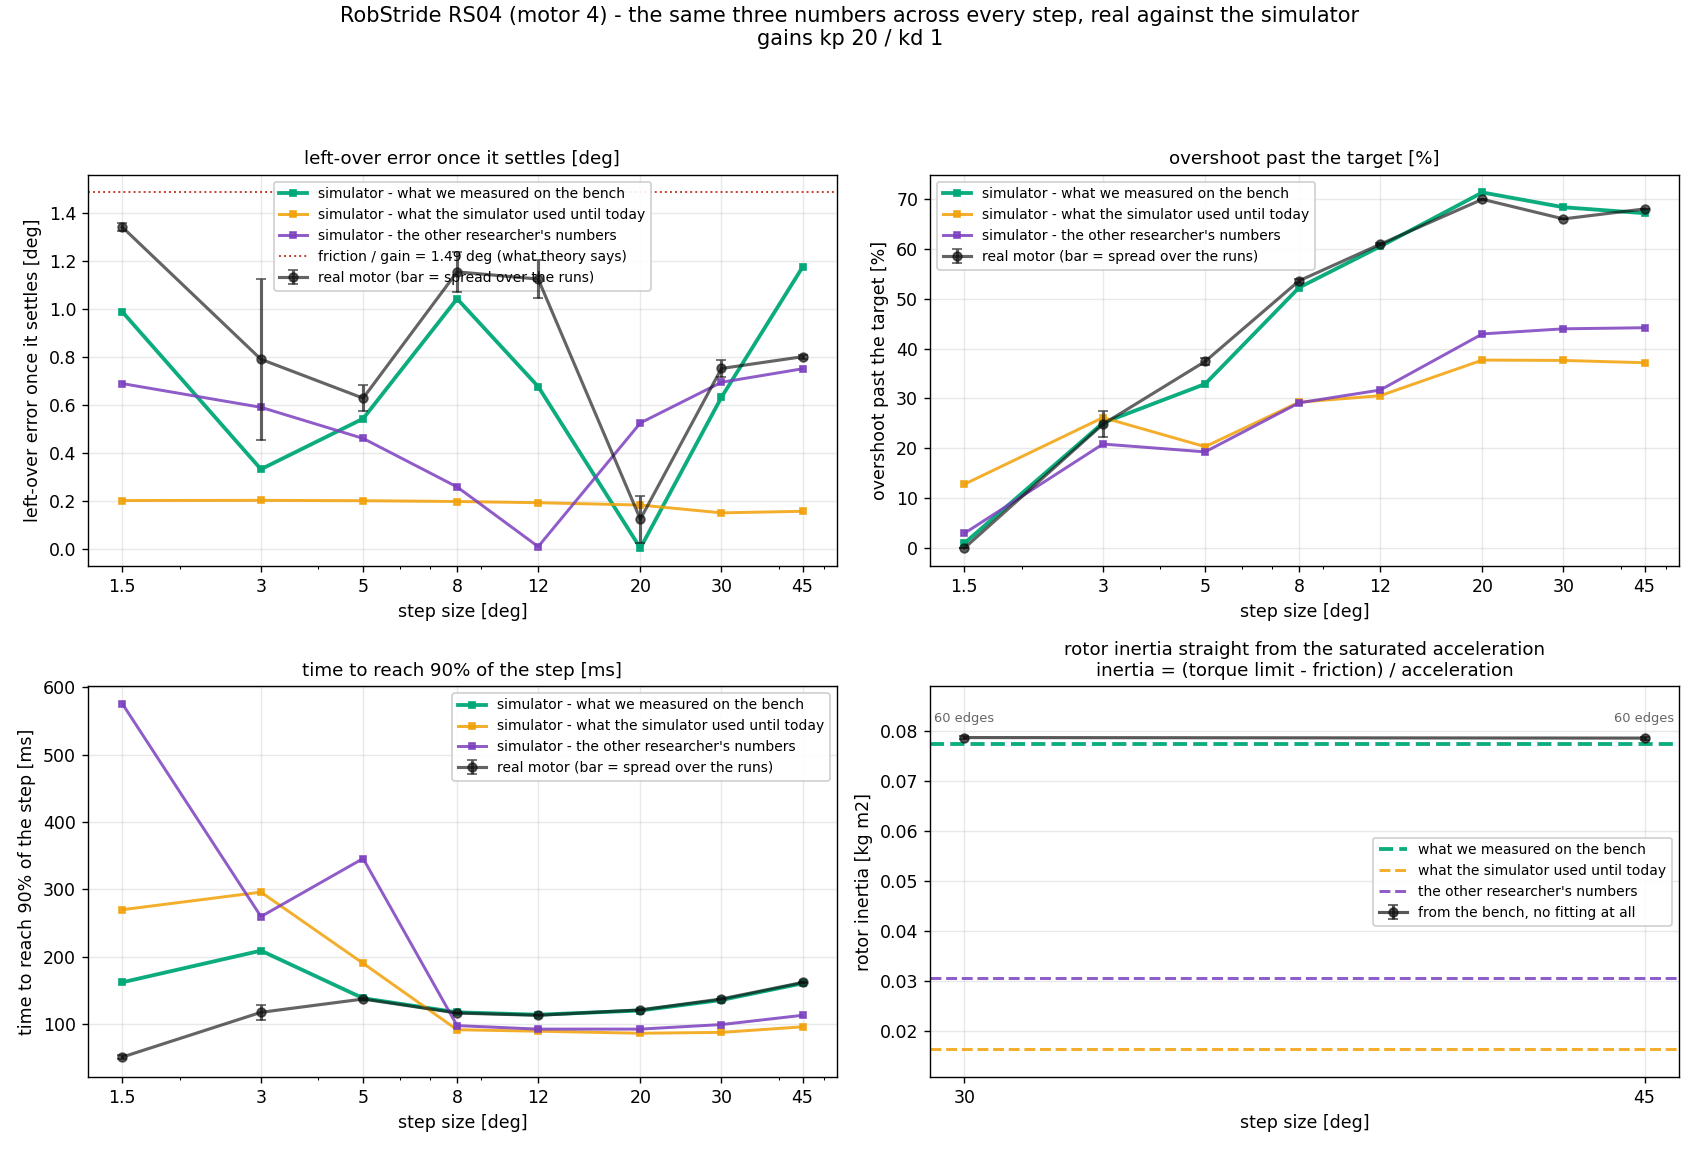
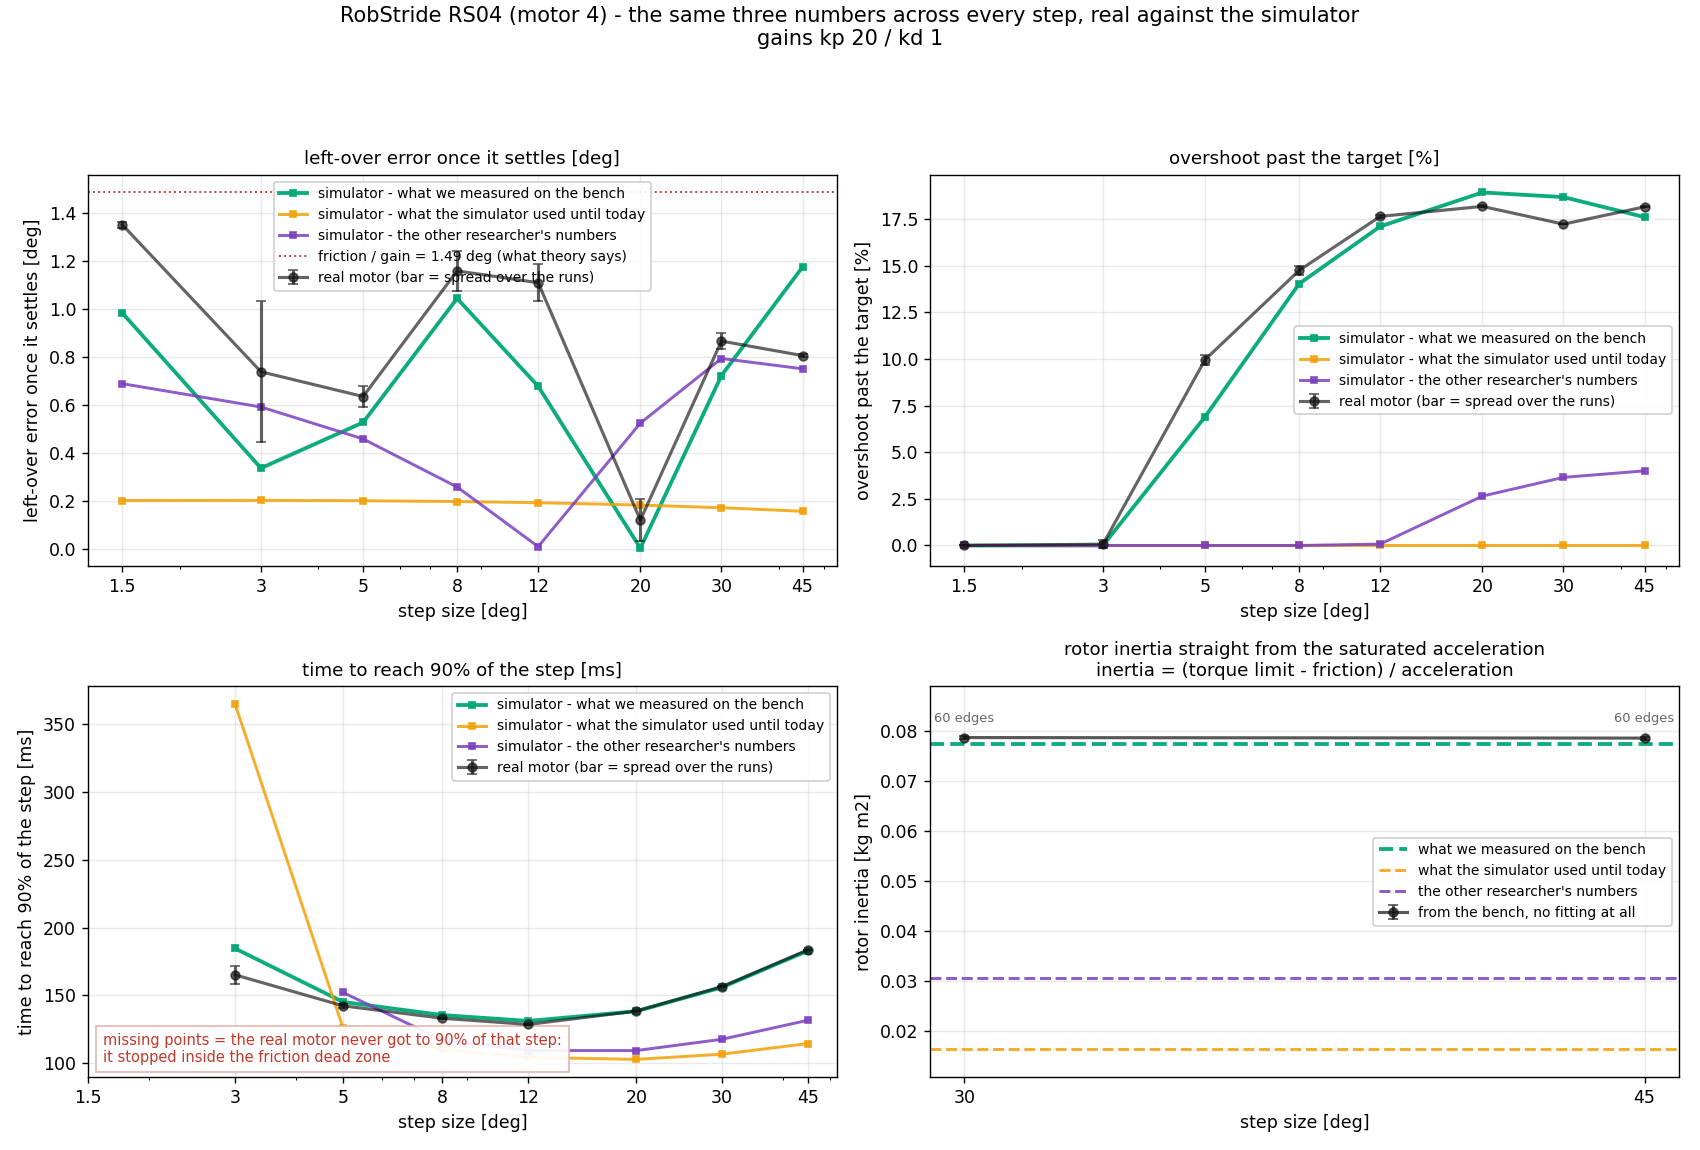
overshoot was inflated up to 2x: a step edge can straddle two grid cells
Resampling to a 1 ms grid smears each edge, and "the value jumped a lot"
then fires on both cells. Two edges get counted where there is one, the
step height comes out half, and overshoot - measured against that height
- doubles. Whether an edge smears depends on where it lands relative to
the grid, which varies run to run, so it manufactures differences that
are not there. Spotted in the position sweep: 53% at one shaft angle
against 88% at another, with the simulator obediently reproducing the
difference, which no position-independent model can do.

A step command has two levels, so classify each sample above or below
the midpoint and take the transitions of that. Immune to smearing, and
the height comes from the two levels rather than from the cell beside
the edge.

★ Corrects the numbers in the previous commit. Overshoot does not run to
70%; it saturates at 18%:

  step      1.5   3     5     8    12    20    30    45 deg
  real      0.0  0.1  10.0  14.8  17.7  18.2  17.2  18.2 %
  bench sim 0.0  0.0   6.9  14.0  17.1  18.9  18.7  17.6 %

and the models that cannot make it are the light ones - the other
researcher's reaches 4% at 45 deg, the values the simulator carried
reach 0%. Time to 90% has a minimum at 12 deg and climbs both ways
(friction-limited below, torque-limited above); measured 165/142/133/
129/138/157/184 ms against 185/145/136/131/138/156/183.

Position sweep, now that the metric is sound: overshoot 16.8-18.1% and
[…]

diff --git a/System_ID/pd_step_sweep.py b/System_ID/pd_step_sweep.py
@@ -70,14 +70,21 @@ HOMES = [-60.0, -30.0, 0.0, 30.0, 60.0]
 
 
 def edges_of(tgt):
-  """계단이 **크게 뛴 곳**만 모서리로 본다.
+  """계단이 **위/아래 두 층 사이를 오간 자리**를 찾는다.
 
-  "값이 달라진 곳"으로 잡으면 안 된다 — 시각 격자에 다시 올릴 때 계단이 한 칸 번져
-  모서리가 수백 개가 되고, 지표가 통째로 망가진다(지나친 양이 195%로 나와서 알아챘다)."""
-  span = float(tgt.max() - tgt.min())
-  if span < 1e-6:
-    return np.array([], dtype=int)
-  return np.where(np.abs(np.diff(tgt)) > 0.4 * span)[0]
+  ★ 2026-09-10 정정 — 앞의 판은 "값이 크게 뛴 곳"을 모서리로 봤습니다. 그런데 자료를 1
+  밀리초 격자에 다시 올릴 때 계단 하나가 **두 칸에 걸쳐 번지면** 두 칸 모두 문턱을 넘어
+  **모서리가 둘로 잡히고**, 계단 높이가 절반으로 계산되어 "지나친 양"이 최대 두 배로
+  부풀려집니다. 번지느냐 마느냐는 모서리가 격자의 어디에 떨어지느냐에 달려 있어 회차마다
+  달라지므로, **있지도 않은 차이**가 생깁니다(자리별 실험에서 53% 대 88% 로 벌어져 알아챘습니다).
+
+  계단 명령은 **층이 둘뿐**이므로, 값이 가운데보다 위냐 아래냐로 나눈 뒤 그 구분이 바뀌는
+  자리를 봅니다. 번짐에 영향을 받지 않습니다."""
+  lo, hi = float(tgt.min()), float(tgt.max())
+  if hi - lo < 1e-6:
+    return np.array([], dtype=int), lo, hi
+  up = tgt > 0.5 * (lo + hi)
+  return np.where(np.diff(up.astype(int)) != 0)[0], lo, hi
 
 
 def step_metrics(ts, tgt, pos):
@@ -86,16 +93,18 @@ def step_metrics(ts, tgt, pos):
   * **남은 오차** — 자리잡은 뒤에도 못 간 만큼. 이론상 **마찰 ÷ 세기**
   * **지나친 양** — 목표를 가는 방향으로 얼마나 넘어갔나. **관성**이 클수록 커진다
   * **90%까지 걸린 시간** — 크게 뛸수록 토크 상한에 걸려 **관성**이 그대로 드러난다
-  """
-  ed = edges_of(tgt)
+
+  높이는 **명령의 두 층**(가장 낮은 값, 가장 높은 값)에서 가져옵니다. 모서리 바로 옆 칸의
+  값을 쓰면 번진 중간값을 집을 수 있습니다."""
+  ed, lo_lv, hi_lv = edges_of(tgt)
+  mid = 0.5 * (lo_lv + hi_lv)
   e = pos - tgt
   ss, ov, rise = [], [], []
   for i, k in enumerate(ed[:-1]):
     te, tn = ts[k], ts[ed[i + 1]]
-    lo, hi = float(tgt[k]), float(tgt[k + 1])
+    going_up = tgt[min(k + 2, len(tgt) - 1)] > mid
+    lo, hi = (lo_lv, hi_lv) if going_up else (hi_lv, lo_lv)
     d = hi - lo
-    if abs(d) < 1e-6:
-      continue
     sgn = 1.0 if d > 0 else -1.0
     s1 = (ts > tn - 0.5) & (ts < tn)
     if s1.sum() > 5:
@@ -121,7 +130,7 @@ def inertia_from_saturation(ts, tgt, pos, tau, tau_max, frictionloss):
   맞춰서 구합니다 — 두 번 미분하면 잡음이 커지기 때문입니다.
 
   이 값은 계단 크기가 클수록 잘 나옵니다. 작은 계단은 상한에 아예 안 붙습니다."""
-  ed = edges_of(tgt)
+  ed, _, _ = edges_of(tgt)
   out = []
   for k in ed[:-1]:
     te = ts[k]
@@ -174,8 +183,9 @@ def zoom_window(ts, tgt):
   **올라가는 모서리만** 고른다. 크기마다 아무 모서리나 고르면 어떤 칸은 올라가고 어떤 칸은
   내려가서, 여덟 칸을 나란히 놓아도 눈으로 못 견준다. 그리고 첫 모서리는 피한다 — 시작
   과도현상이 아직 남아 있어 회차마다 모양이 다르다."""
-  ed = edges_of(tgt)
-  up = [k for k in ed[:-1] if tgt[k + 1] > tgt[k]]
+  ed, lo_lv, hi_lv = edges_of(tgt)
+  mid = 0.5 * (lo_lv + hi_lv)
+  up = [k for k in ed[:-1] if tgt[min(k + 2, len(tgt) - 1)] > mid]
   if not up:
     return (ts[0], ts[-1]) if len(ed) < 2 else (ts[ed[0]], ts[-1])
   k = up[min(1, len(up) - 1)]
